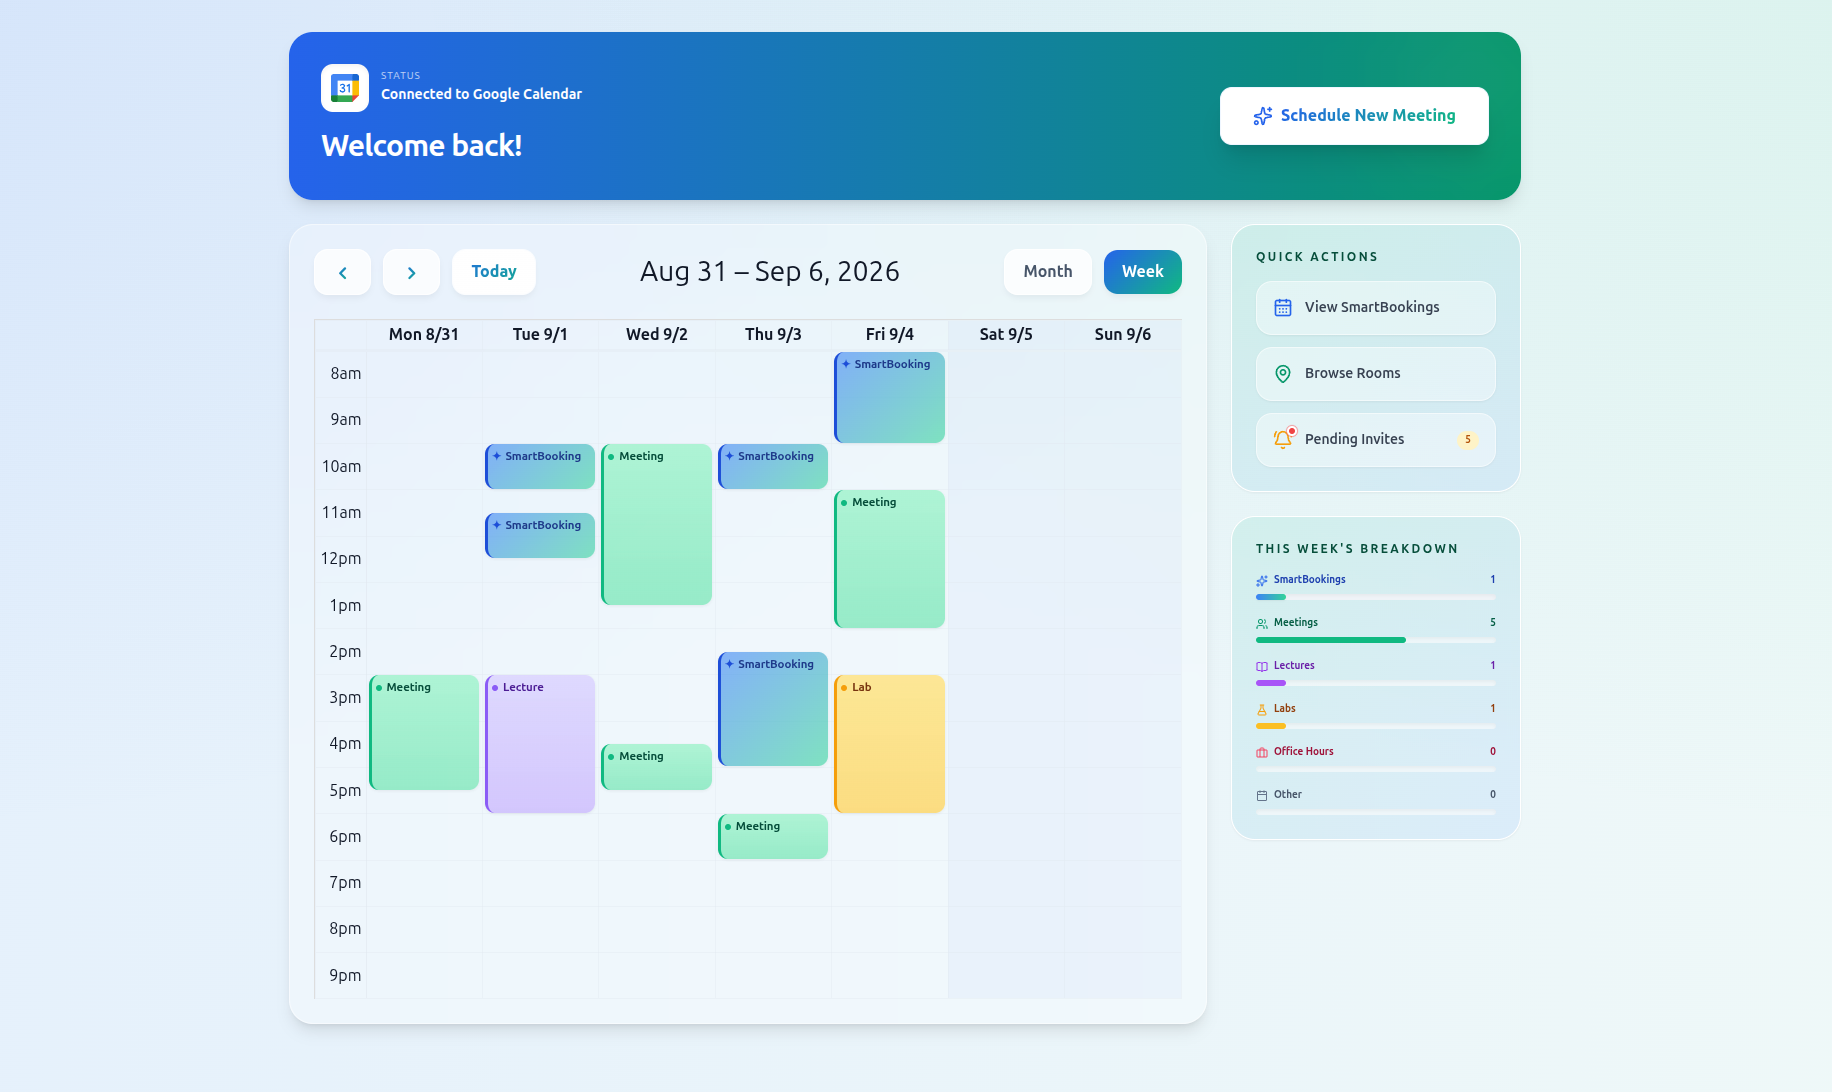
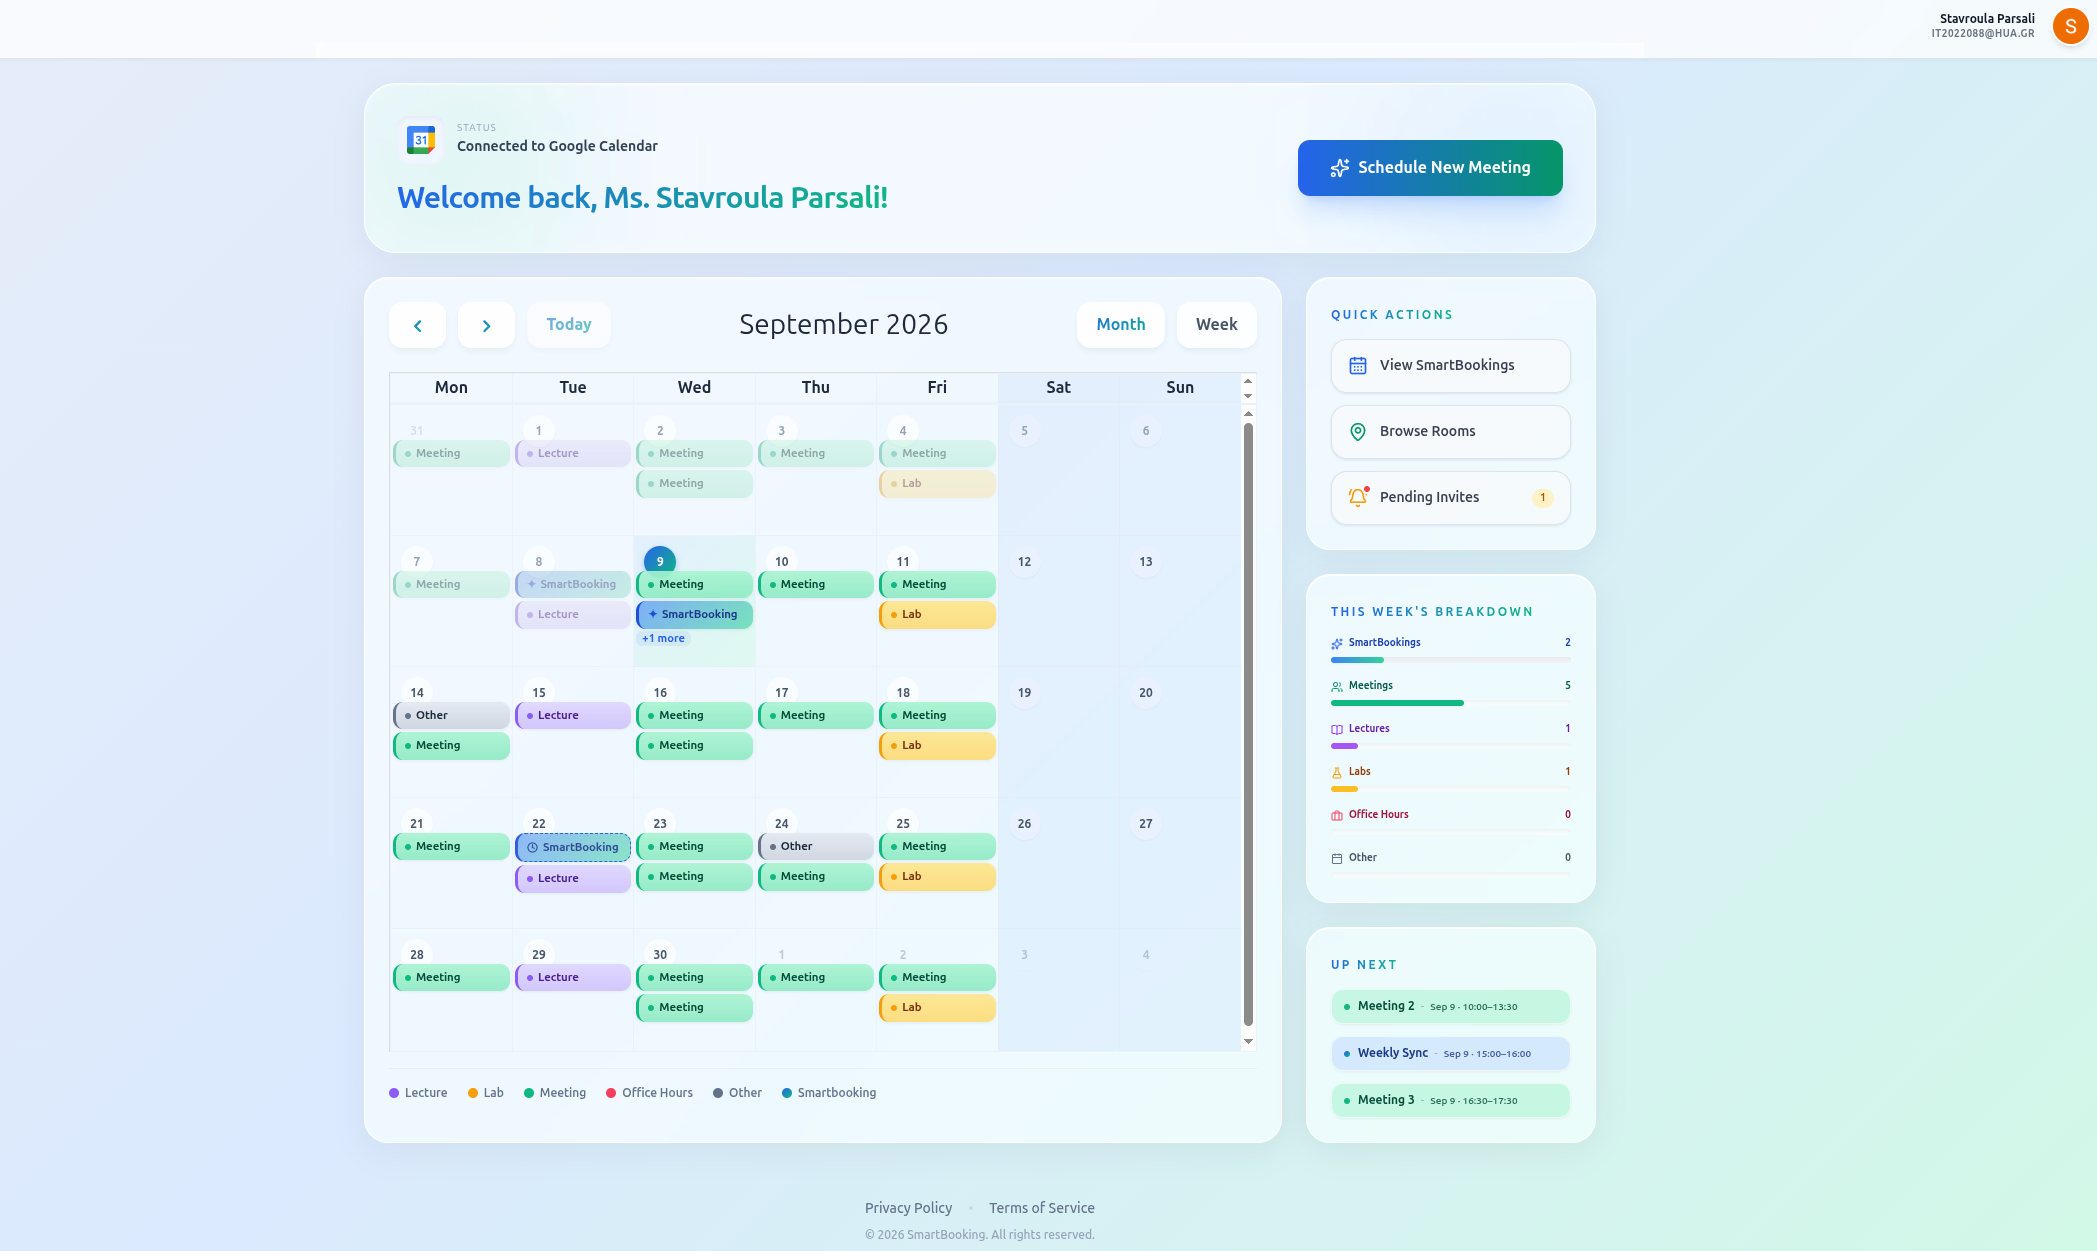
fix: minor UI/UX changes

diff --git a/src/main/resources/static/js/booking-wizard.js b/src/main/resources/static/js/booking-wizard.js
@@ -464,6 +464,7 @@ async function handleFindBestTimes() {
         document.getElementById('summary-synced-count').innerText = state.participants.length + 1;
         document.getElementById('summary-options-count').innerText = data.length;
         document.getElementById('summary-duration').innerText = state.preferences.durationMinutes + 'm';
+        renderSummaryParticipants();
 
         const countSpan = document.getElementById('dynamic-results-count');
         if (countSpan) {
@@ -484,6 +485,23 @@ async function handleFindBestTimes() {
         btn.innerHTML = `Find Best Times <i data-lucide="arrow-right" class="w-5 h-5"></i>`;
         if (typeof lucide !== 'undefined') lucide.createIcons();
     }
+}
+
+function renderSummaryParticipants() {
+    const container = document.getElementById('summary-participants-list');
+    if (!container) return;
+
+    const emailInput = document.getElementById('currentUserEmail');
+    const you = emailInput ? { name: 'You', email: emailInput.value } : null;
+    const allParticipants = you ? [you, ...state.participants] : state.participants;
+
+    container.innerHTML = allParticipants.map(p => `
+        <span class="inline-flex items-center gap-1.5 bg-blue-50 text-blue-700 border border-blue-100 px-2.5 py-1 rounded-lg text-xs font-bold">
+            <i data-lucide="user" class="w-3 h-3"></i> ${p.name || p.email}
+        </span>
+    `).join('');
+
+    if (typeof lucide !== 'undefined') lucide.createIcons();
 }
 
 function renderTrafficLightTimeSlots(slots) {
@@ -778,11 +796,13 @@ async function submitFinalBooking() {
         forcePartial: false
     };
 
-    await executeBookingRequest(payload);
+    const confirmBtn = document.getElementById('final-confirm-btn');
+    if (confirmBtn.disabled) return;
+
+    await executeBookingRequest(payload, confirmBtn);
 }
 
-async function executeBookingRequest(payload) {
-    const btn = document.getElementById('find-times-btn');
+async function executeBookingRequest(payload, btn) {
     const originalBtnText = btn.innerHTML;
 
     btn.disabled = true;
@@ -855,13 +875,9 @@ function showPartialConflictModal(conflictData, originalPayload) {
     countSpan.innerText = conflictData.successfulDates.length;
 
     forceBtn.onclick = async () => {
-        forceBtn.disabled = true;
-        forceBtn.innerHTML = `<i data-lucide="loader-2" class="w-4 h-4 animate-spin"></i> Processing...`;
-        if (typeof lucide !== 'undefined') lucide.createIcons();
-
         originalPayload.forcePartial = true;
 
-        await executeBookingRequest(originalPayload);
+        await executeBookingRequest(originalPayload, forceBtn);
         modal.classList.add('hidden');
     };
 

diff --git a/src/main/resources/static/js/index.js b/src/main/resources/static/js/index.js
@@ -813,7 +813,30 @@ function renderPendingInvites(invites) {
     if (typeof lucide !== 'undefined') lucide.createIcons();
 }
 
+let pendingDeclineBookingId = null;
+
 function handleRsvp(bookingId, status) {
+    if (status === 'DECLINED') {
+        pendingDeclineBookingId = bookingId;
+        document.getElementById('declineConfirmModal').classList.remove('hidden');
+        return;
+    }
+    sendRsvp(bookingId, status);
+}
+
+function closeDeclineConfirmModal() {
+    pendingDeclineBookingId = null;
+    document.getElementById('declineConfirmModal').classList.add('hidden');
+}
+
+function executeDeclineRsvp() {
+    const bookingId = pendingDeclineBookingId;
+    document.getElementById('declineConfirmModal').classList.add('hidden');
+    pendingDeclineBookingId = null;
+    if (bookingId) sendRsvp(bookingId, 'DECLINED');
+}
+
+function sendRsvp(bookingId, status) {
     const card = document.getElementById(`invite-card-${bookingId}`);
     if(card) {
         card.style.opacity = '0.5';
@@ -867,9 +890,6 @@ function handleRsvp(bookingId, status) {
                                     }
                                 }
                             });
-                            // FullCalendar doesn't re-run eventClassNames on setExtendedProp() alone,
-                            // so the pending-stripe styling would otherwise only refresh the next time
-                            // something else forces a re-render (e.g. clicking the event).
                             window.smartCalendar.render();
                         }
 
@@ -880,10 +900,14 @@ function handleRsvp(bookingId, status) {
                     }, 2000);
                 }
             } else {
-                alert("Failed to send RSVP. Please try again.");
-                if(card) {
+                if (card) {
                     card.style.opacity = '1';
                     card.style.pointerEvents = 'auto';
+                    const errorBanner = document.createElement('div');
+                    errorBanner.className = 'mt-3 p-3 rounded-xl bg-rose-50 border border-rose-200 text-rose-700 text-xs font-bold flex items-center gap-2';
+                    errorBanner.innerHTML = '<i data-lucide="alert-triangle" class="w-4 h-4 shrink-0"></i><span>Failed to send RSVP. Please try again.</span>';
+                    card.appendChild(errorBanner);
+                    if (typeof lucide !== 'undefined') lucide.createIcons();
                 }
             }
         })

diff --git a/src/main/resources/templates/index.html b/src/main/resources/templates/index.html
@@ -413,6 +413,28 @@
         <div id="pendingInvitesList" class="p-6 overflow-y-auto flex-1 space-y-4 bg-slate-50/50">
         </div>
 
+        <div id="declineConfirmModal" class="fixed inset-0 bg-slate-900/35 backdrop-blur-md hidden flex items-center justify-center z-[210] p-4">
+            <div class="glass-modal rounded-[2.5rem] p-8 max-w-sm w-full">
+                <div class="mx-auto flex items-center justify-center h-16 w-16 rounded-full bg-rose-100 mb-6">
+                    <i data-lucide="calendar-x" class="h-8 w-8 text-rose-600"></i>
+                </div>
+                <div class="text-center">
+                    <h3 class="text-xl font-black text-slate-900 mb-2">Decline this invitation?</h3>
+                    <p class="text-sm text-slate-500 font-medium">
+                        The meeting will be removed from your calendar. This response cannot be undone.
+                    </p>
+                </div>
+                <div class="flex gap-3 mt-8">
+                    <button type="button" onclick="closeDeclineConfirmModal()" class="flex-1 py-3 font-bold text-slate-600 hover:bg-slate-100 rounded-xl transition-all">
+                        Cancel
+                    </button>
+                    <button type="button" onclick="executeDeclineRsvp()" class="flex-1 py-3 bg-rose-600 text-white font-bold rounded-xl hover:bg-rose-700 shadow-md shadow-rose-200 transition-all flex items-center justify-center gap-2">
+                        <i data-lucide="x" class="w-4 h-4"></i> Decline
+                    </button>
+                </div>
+            </div>
+        </div>
+
     </div>
 </div>
 <div th:replace="~{fragments/footer :: footer}"></div>

diff --git a/src/main/resources/templates/book.html b/src/main/resources/templates/book.html
@@ -287,6 +287,13 @@
             </div>
         </div>
 
+        <div class="glass-surface p-4 mb-6">
+            <p class="text-[10px] font-bold text-slate-400 uppercase tracking-wider mb-2 flex items-center gap-1.5">
+                <i data-lucide="users" class="w-3.5 h-3.5 text-blue-500"></i> Booking For
+            </p>
+            <div id="summary-participants-list" class="flex flex-wrap gap-2"></div>
+        </div>
+
         <div class="glass-card-gradient p-8 shadow-lg">
             <div class="flex items-center gap-3 mb-2">
                 <h2 class="text-2xl font-black btn-gradient-text">Top <span id="dynamic-results-count">15</span> Available Slots</h2>

diff --git a/src/main/java/com/hua/smartbooking/controller/BookingController.java b/src/main/java/com/hua/smartbooking/controller/BookingController.java
@@ -277,7 +277,10 @@ public class BookingController {
                 if (isUserBusy) {
                     Map<String, String> conflict = new HashMap<>();
                     conflict.put("date", currentStart.toLocalDate().toString());
-                    conflict.put("reason", "Participant " + busyUserEmail + " has a scheduling conflict.");
+                    String conflictReason = busyUserEmail.equalsIgnoreCase(organizerEmail)
+                            ? "You have a scheduling conflict."
+                            : "Participant " + busyUserEmail + " has a scheduling conflict.";
+                    conflict.put("reason", conflictReason);
                     failedDates.add(conflict);
                 } else {
                     successfulStarts.add(currentStart);
